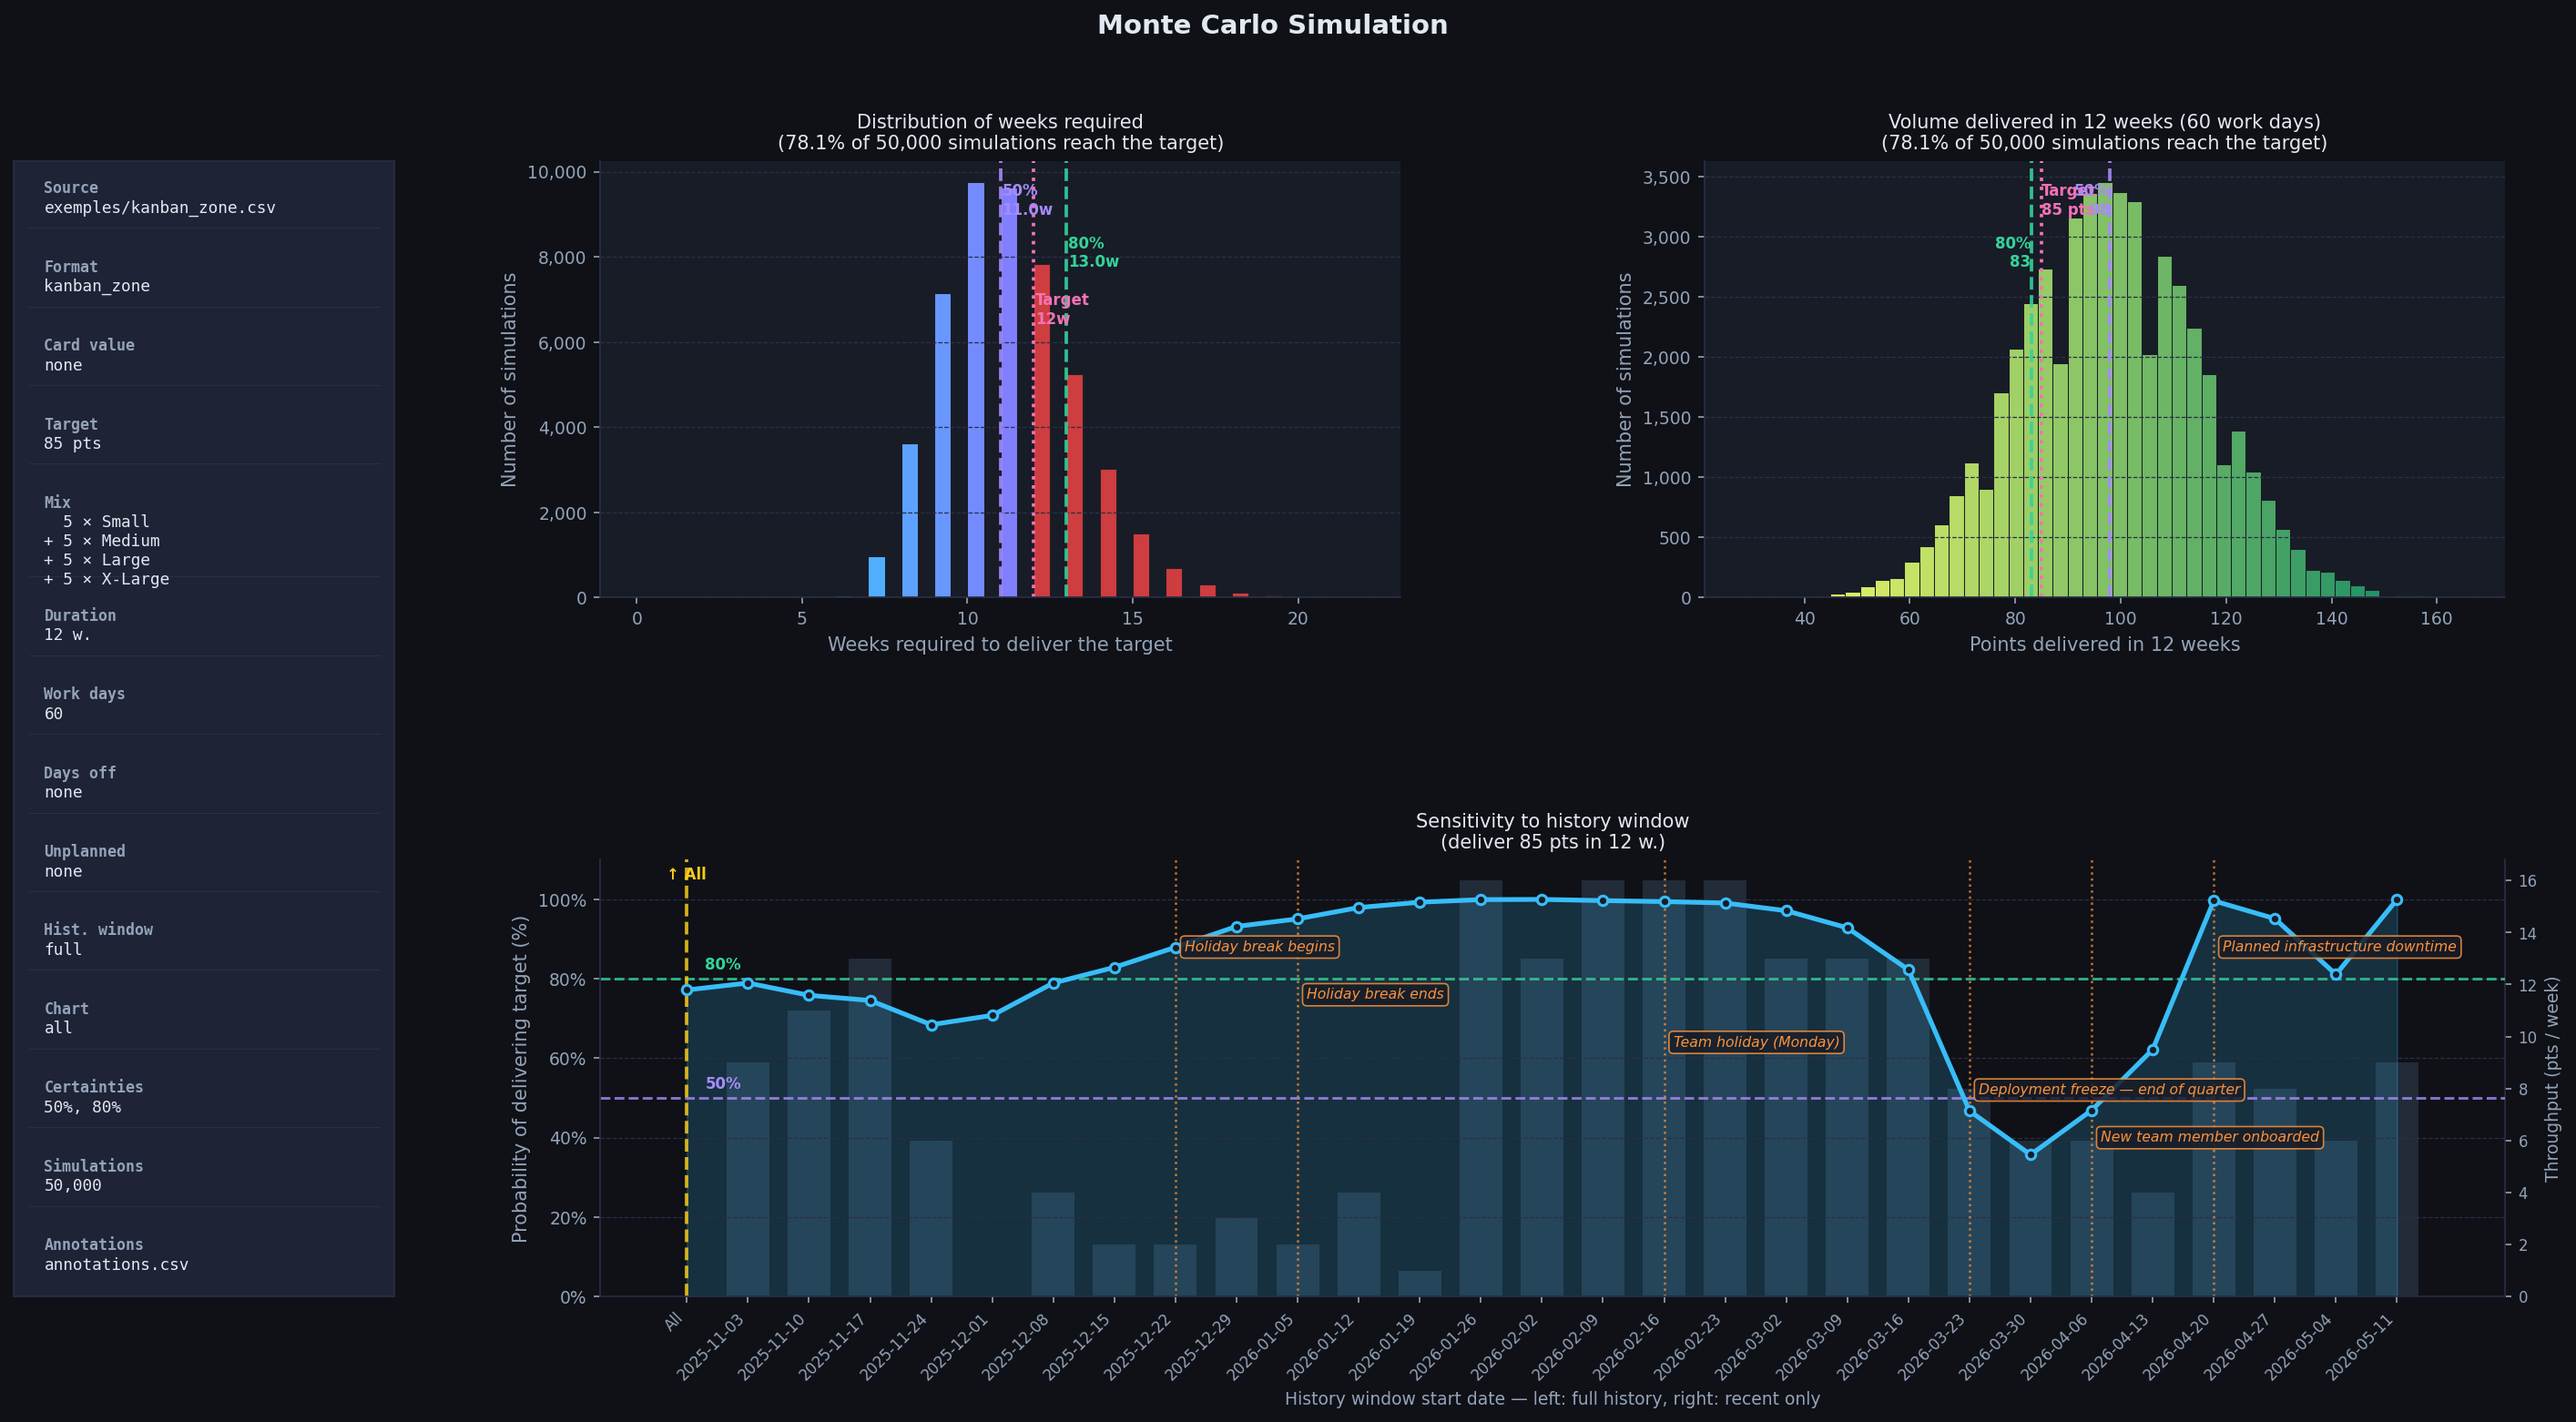
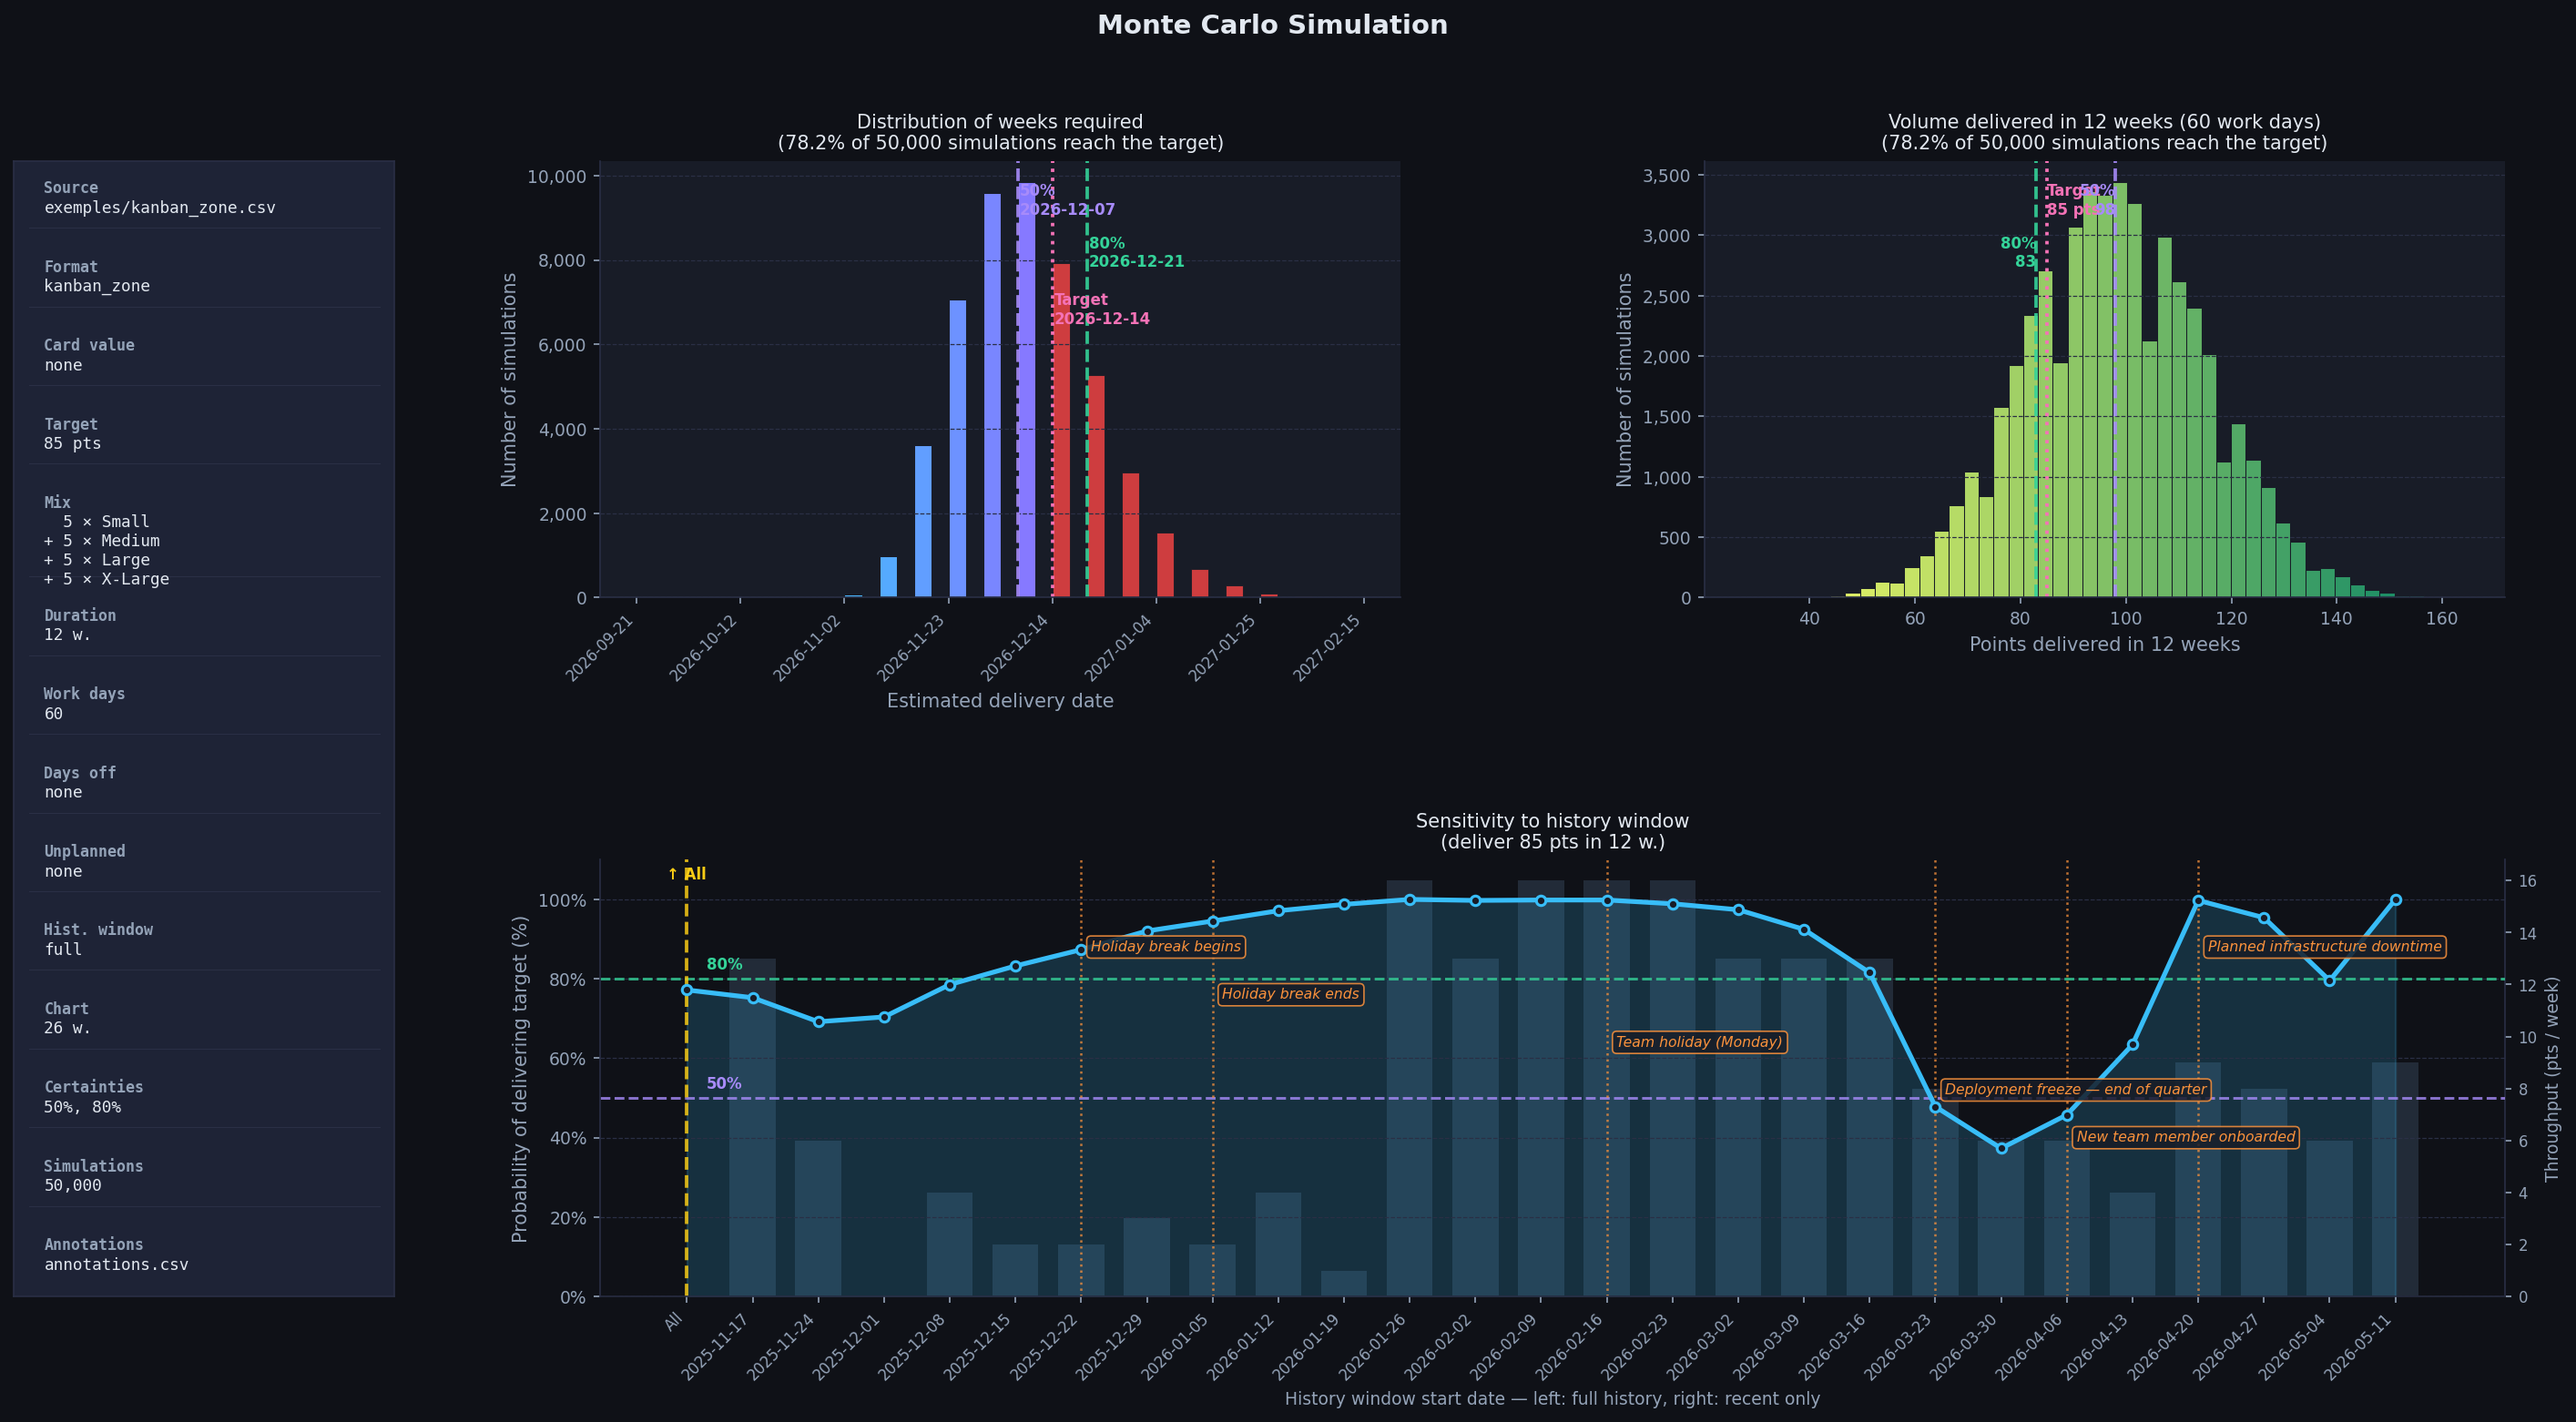
feat: show calendar dates instead of week counts on the weeks chart
The top-left chart's x-axis meant "N weeks from the simulation start"
- replace the bare week count with the calendar date it corresponds
to (target line, certainty markers, and axis ticks alike), matching
the date-based treatment already applied to the sensitivity chart.

diff --git a/montecarlo/charts.py b/montecarlo/charts.py
@@ -112,6 +112,7 @@ def _draw_weeks_histogram(
     certainties: list[int],
     pct_delivered: float,
     n_sim: int,
+    start_date: date,
 ) -> None:
     """Chart 1: distribution of weeks required to reach the target."""
     _style_axis(ax1)
@@ -132,16 +133,25 @@ def _draw_weeks_histogram(
         val = np.nanpercentile(weeks_arr, p)
         col = CERT_COLORS[i % len(CERT_COLORS)]
         ax1.axvline(val, color=col, linewidth=1.8, linestyle="--", alpha=0.90)
+        date_lbl = (
+            s["none_val"] if np.isnan(val)
+            else str(start_date + timedelta(days=round(val * 7)))
+        )
         ax1.text(val + 0.05, ax1.get_ylim()[1] * (0.95 - i * 0.12),
-                 f"{p}%\n{val:.1f}{s['weeks_short']}",
+                 f"{p}%\n{date_lbl}",
                  fontsize=8, color=col, va="top", fontweight="bold")
     ax1.axvline(n_weeks, color=C_TARGET, linewidth=1.8, linestyle=":")
     ax1.text(n_weeks + 0.05, ax1.get_ylim()[1] * 0.70,
-             s["ax1_objective"].format(n=n_weeks),
+             s["ax1_objective"].format(date=start_date + timedelta(weeks=n_weeks)),
              fontsize=8, color=C_TARGET, va="top", fontweight="bold")
     ax1.set_xlabel(s["ax1_xlabel"], fontsize=10)
     ax1.set_ylabel(s["ax1_ylabel"], fontsize=10)
     ax1.set_title(s["ax1_title"].format(pct=pct_delivered, n=n_sim), fontsize=10)
+    ax1.xaxis.set_major_locator(mticker.MaxNLocator(integer=True, nbins=8))
+    ax1.xaxis.set_major_formatter(
+        mticker.FuncFormatter(lambda x, _: str(start_date + timedelta(weeks=x)))
+    )
+    plt.setp(ax1.get_xticklabels(), rotation=45, ha="right", fontsize=8)
     ax1.yaxis.set_major_formatter(mticker.FuncFormatter(lambda x, _: f"{int(x):,}"))
     ax1.grid(axis="y", color=C_GRID, linewidth=0.6, linestyle="--")
 
@@ -345,6 +355,7 @@ def make_charts(
     annotations: dict[date, list[str]] | None = None,
     display_window: int | None = 26,
     days_off: int = 0,
+    start_date: date | None = None,
     target_date: date | None = None,
     unplanned_ratio: float = 0.0,
     uniform_size: float | None = None,
@@ -374,6 +385,7 @@ def make_charts(
 
     n_sim         = len(weeks_arr)
     pct_delivered = 100 * np.sum(weeks_arr <= n_weeks) / n_sim
+    sim_start     = start_date if start_date is not None else date.today()
 
     plt.rcParams.update({
         "text.color":       C_TEXT,
@@ -458,6 +470,7 @@ def make_charts(
     _draw_weeks_histogram(
         ax1, s, weeks_arr=weeks_arr, n_weeks=n_weeks,
         certainties=certainties, pct_delivered=pct_delivered, n_sim=n_sim,
+        start_date=sim_start,
     )
 
     _draw_volume_histogram(

diff --git a/montecarlo/strings.py b/montecarlo/strings.py
@@ -31,7 +31,6 @@ CHART_STRINGS: dict[str, dict[str, str]] = {
         "display_all":       "all",
         "none_val":          "none",
         "weeks_abbr":        "w.",        # long form (e.g. "12 w.")
-        "weeks_short":       "w",         # short form used inside labels (e.g. "3.0w")
         "days_abbr":         "d.",
         # Size names (must parallel SCORES key order)
         "size_tiny":         "X-Small",
@@ -41,9 +40,9 @@ CHART_STRINGS: dict[str, dict[str, str]] = {
         "size_xlarge":       "X-Large",
         # Chart 1 — weeks distribution
         "ax1_title":         "Distribution of weeks required\n({pct:.1f}% of {n:,} simulations reach the target)",
-        "ax1_xlabel":        "Weeks required to deliver the target",
+        "ax1_xlabel":        "Estimated delivery date",
         "ax1_ylabel":        "Number of simulations",
-        "ax1_objective":     "Target\n{n}w",
+        "ax1_objective":     "Target\n{date}",
         # Chart 2 — volume distribution
         "ax2_title":         "Volume delivered in {n_weeks} weeks ({n_workdays} work days)\n({pct:.1f}% of {n:,} simulations reach the target)",
         "ax2_xlabel":        "Points delivered in {n_weeks} weeks",
@@ -115,7 +114,6 @@ CHART_STRINGS: dict[str, dict[str, str]] = {
         "display_all":       "tout",
         "none_val":          "aucun",
         "weeks_abbr":        "sem.",
-        "weeks_short":       "s",
         "days_abbr":         "j.",
         # Noms des tailles (parallèle aux clés de SCORES)
         "size_tiny":         "Très petit",
@@ -125,9 +123,9 @@ CHART_STRINGS: dict[str, dict[str, str]] = {
         "size_xlarge":       "Très grand",
         # Graphique 1 — distribution des semaines
         "ax1_title":         "Distribution du nombre de semaines requises\n({pct:.1f} % des {n:,} simulations atteignent la cible)",
-        "ax1_xlabel":        "Semaines requises pour livrer la cible",
+        "ax1_xlabel":        "Date de livraison estimée",
         "ax1_ylabel":        "Nombre de simulations",
-        "ax1_objective":     "Objectif\n{n}s",
+        "ax1_objective":     "Objectif\n{date}",
         # Graphique 2 — distribution du volume
         "ax2_title":         "Distribution du volume livré en {n_weeks} semaines ({n_workdays} j. trav.)\n({pct:.1f} % des {n:,} simulations atteignent la cible)",
         "ax2_xlabel":        "Points livrés en {n_weeks} semaines",

diff --git a/montecarlo/cli.py b/montecarlo/cli.py
@@ -456,6 +456,7 @@ def run_forecast(args: argparse.Namespace, parser: argparse.ArgumentParser) -> N
             args.window, window_start, window_end, n_workdays, fpath, sorted(args.certainties), annots,
             display_window,
             days_off=args.days_off,
+            start_date=start_date,
             target_date=target_date,
             unplanned_ratio=args.unplanned_ratio,
             uniform_size=args.uniform_size,
